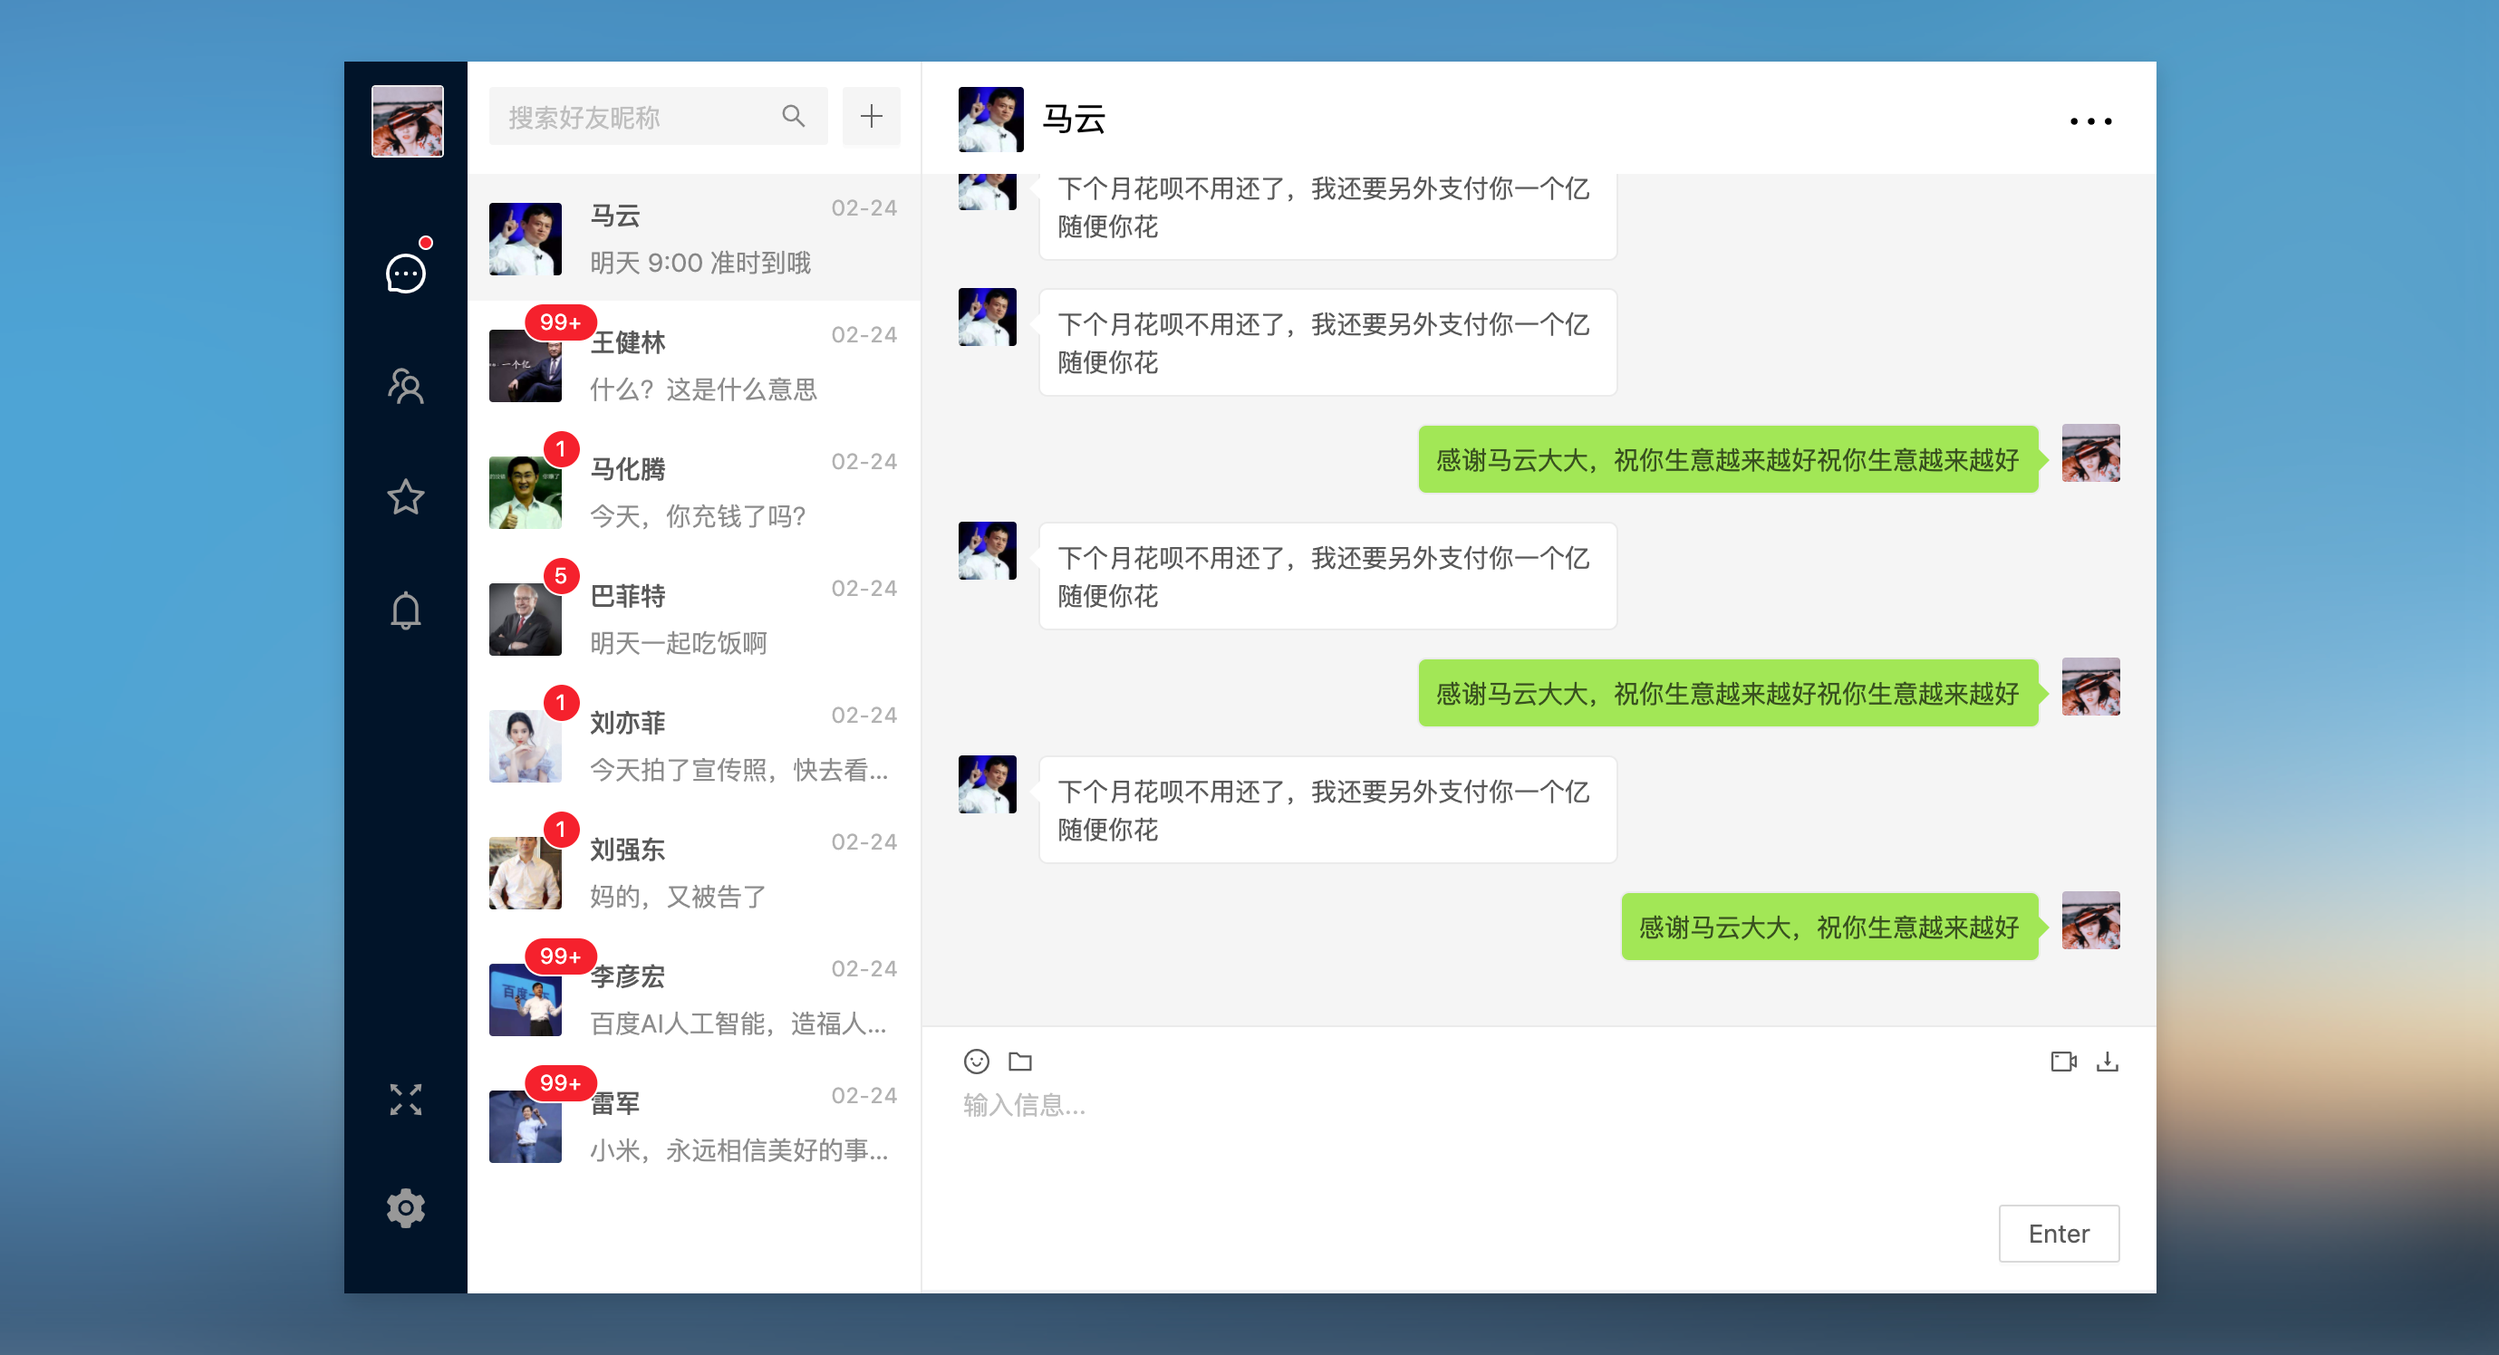
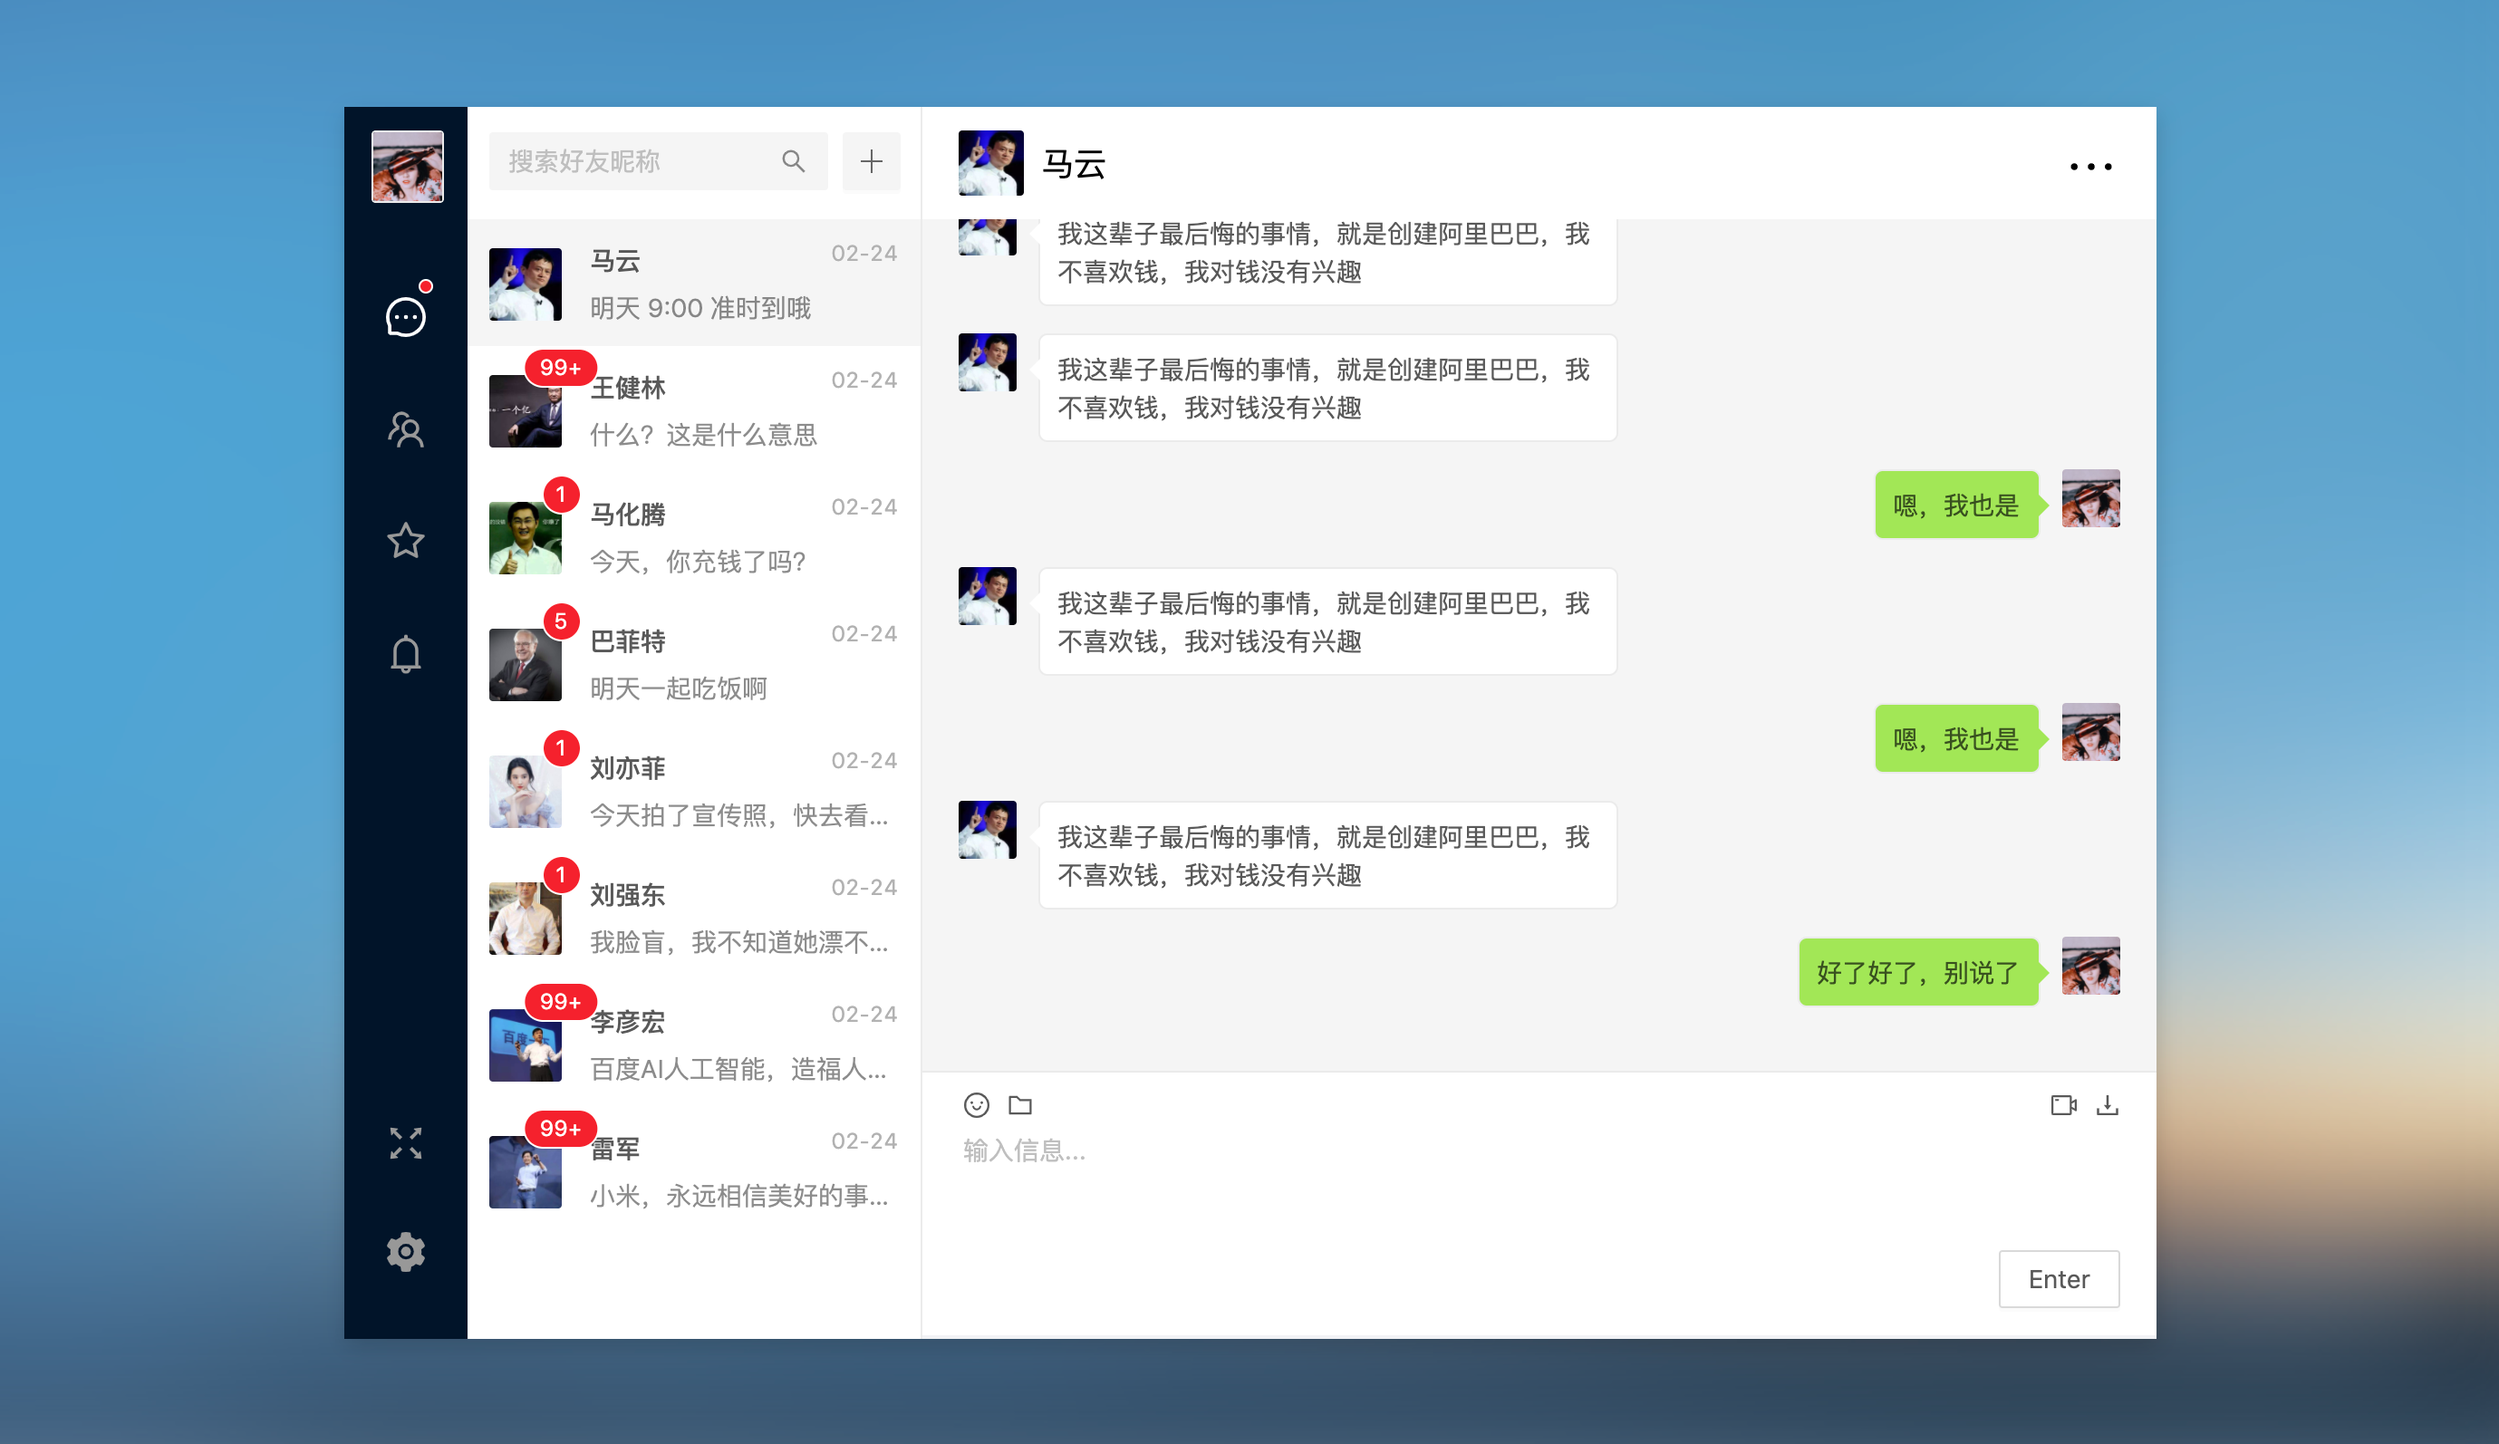
👍 EDIT README.md

diff --git a/src/redux/actions.js b/src/redux/actions.js
@@ -15,19 +15,19 @@ const showFriendInfo = friend => ({ type: INIT_FRIEND_INFO, data: friend })
 export const initChatInfo = chatUserInfo => {
     return dispatch => {
         let messList = chatUserInfo.uid === 1 ? [
-            {id: 1, avatar: "https://timgsa.baidu.com/timg?image&quality=80&size=b9999_10000&sec=1582778785114&di=4bf0a9cbe00cd200465af9fe46b3091e&imgtype=0&src=http%3A%2F%2Fwww.56ec.org.cn%2Fd%2Ffile%2Fnews%2Frwgd%2F2017-05-15%2Fa26c40ec7d83c66d78ad6f791952a01b.jpg", message: "下个月花呗不用还了，我还要另外支付你一个亿随便你花", position: "left"},
-            {id: 2, avatar: "http://t8.baidu.com/it/u=3571592872,3353494284&fm=79&app=86&size=h300&n=0&g=4n&f=jpeg?sec=1583315718&t=9caf2bcbcf5ea34c543c426750bb1134", message: "感谢马云大大，祝你生意越来越好祝你生意越来越好", position: "right"},
-            {id: 3, avatar: "https://timgsa.baidu.com/timg?image&quality=80&size=b9999_10000&sec=1582778785114&di=4bf0a9cbe00cd200465af9fe46b3091e&imgtype=0&src=http%3A%2F%2Fwww.56ec.org.cn%2Fd%2Ffile%2Fnews%2Frwgd%2F2017-05-15%2Fa26c40ec7d83c66d78ad6f791952a01b.jpg", message: "下个月花呗不用还了，我还要另外支付你一个亿随便你花", position: "left"},
-            {id: 4, avatar: "http://t8.baidu.com/it/u=3571592872,3353494284&fm=79&app=86&size=h300&n=0&g=4n&f=jpeg?sec=1583315718&t=9caf2bcbcf5ea34c543c426750bb1134", message: "感谢马云大大，祝你生意越来越好祝你生意越来越好", position: "right"},
-            {id: 5, avatar: "https://timgsa.baidu.com/timg?image&quality=80&size=b9999_10000&sec=1582778785114&di=4bf0a9cbe00cd200465af9fe46b3091e&imgtype=0&src=http%3A%2F%2Fwww.56ec.org.cn%2Fd%2Ffile%2Fnews%2Frwgd%2F2017-05-15%2Fa26c40ec7d83c66d78ad6f791952a01b.jpg", message: "下个月花呗不用还了，我还要另外支付你一个亿随便你花", position: "left"},
-            {id: 6, avatar: "http://t8.baidu.com/it/u=3571592872,3353494284&fm=79&app=86&size=h300&n=0&g=4n&f=jpeg?sec=1583315718&t=9caf2bcbcf5ea34c543c426750bb1134", message: "感谢马云大大，祝你生意越来越好祝你生意越来越好", position: "right"},
-            {id: 7, avatar: "https://timgsa.baidu.com/timg?image&quality=80&size=b9999_10000&sec=1582778785114&di=4bf0a9cbe00cd200465af9fe46b3091e&imgtype=0&src=http%3A%2F%2Fwww.56ec.org.cn%2Fd%2Ffile%2Fnews%2Frwgd%2F2017-05-15%2Fa26c40ec7d83c66d78ad6f791952a01b.jpg", message: "下个月花呗不用还了，我还要另外支付你一个亿随便你花", position: "left"},
-            {id: 8, avatar: "https://timgsa.baidu.com/timg?image&quality=80&size=b9999_10000&sec=1582778785114&di=4bf0a9cbe00cd200465af9fe46b3091e&imgtype=0&src=http%3A%2F%2Fwww.56ec.org.cn%2Fd%2Ffile%2Fnews%2Frwgd%2F2017-05-15%2Fa26c40ec7d83c66d78ad6f791952a01b.jpg", message: "下个月花呗不用还了，我还要另外支付你一个亿随便你花", position: "left"},
-            {id: 9, avatar: "http://t8.baidu.com/it/u=3571592872,3353494284&fm=79&app=86&size=h300&n=0&g=4n&f=jpeg?sec=1583315718&t=9caf2bcbcf5ea34c543c426750bb1134", message: "感谢马云大大，祝你生意越来越好祝你生意越来越好", position: "right"},
-            {id: 10, avatar: "https://timgsa.baidu.com/timg?image&quality=80&size=b9999_10000&sec=1582778785114&di=4bf0a9cbe00cd200465af9fe46b3091e&imgtype=0&src=http%3A%2F%2Fwww.56ec.org.cn%2Fd%2Ffile%2Fnews%2Frwgd%2F2017-05-15%2Fa26c40ec7d83c66d78ad6f791952a01b.jpg", message: "下个月花呗不用还了，我还要另外支付你一个亿随便你花", position: "left"},
-            {id: 11, avatar: "http://t8.baidu.com/it/u=3571592872,3353494284&fm=79&app=86&size=h300&n=0&g=4n&f=jpeg?sec=1583315718&t=9caf2bcbcf5ea34c543c426750bb1134", message: "感谢马云大大，祝你生意越来越好祝你生意越来越好", position: "right"},
-            {id: 12, avatar: "https://timgsa.baidu.com/timg?image&quality=80&size=b9999_10000&sec=1582778785114&di=4bf0a9cbe00cd200465af9fe46b3091e&imgtype=0&src=http%3A%2F%2Fwww.56ec.org.cn%2Fd%2Ffile%2Fnews%2Frwgd%2F2017-05-15%2Fa26c40ec7d83c66d78ad6f791952a01b.jpg", message: "下个月花呗不用还了，我还要另外支付你一个亿随便你花", position: "left"},
-            {id: 13, avatar: "http://t8.baidu.com/it/u=3571592872,3353494284&fm=79&app=86&size=h300&n=0&g=4n&f=jpeg?sec=1583315718&t=9caf2bcbcf5ea34c543c426750bb1134", message: "感谢马云大大，祝你生意越来越好", position: "right"},
+            {id: 1, avatar: "https://timgsa.baidu.com/timg?image&quality=80&size=b9999_10000&sec=1582778785114&di=4bf0a9cbe00cd200465af9fe46b3091e&imgtype=0&src=http%3A%2F%2Fwww.56ec.org.cn%2Fd%2Ffile%2Fnews%2Frwgd%2F2017-05-15%2Fa26c40ec7d83c66d78ad6f791952a01b.jpg", message: " 我这辈子最后悔的事情，就是创建阿里巴巴，我不喜欢钱，我对钱没有兴趣", position: "left"},
+            {id: 2, avatar: "http://t8.baidu.com/it/u=3571592872,3353494284&fm=79&app=86&size=h300&n=0&g=4n&f=jpeg?sec=1583315718&t=9caf2bcbcf5ea34c543c426750bb1134", message: "嗯，我也是", position: "right"},
+            {id: 3, avatar: "https://timgsa.baidu.com/timg?image&quality=80&size=b9999_10000&sec=1582778785114&di=4bf0a9cbe00cd200465af9fe46b3091e&imgtype=0&src=http%3A%2F%2Fwww.56ec.org.cn%2Fd%2Ffile%2Fnews%2Frwgd%2F2017-05-15%2Fa26c40ec7d83c66d78ad6f791952a01b.jpg", message: " 我这辈子最后悔的事情，就是创建阿里巴巴，我不喜欢钱，我对钱没有兴趣", position: "left"},
+            {id: 4, avatar: "http://t8.baidu.com/it/u=3571592872,3353494284&fm=79&app=86&size=h300&n=0&g=4n&f=jpeg?sec=1583315718&t=9caf2bcbcf5ea34c543c426750bb1134", message: "嗯，我也是", position: "right"},
+            {id: 5, avatar: "https://timgsa.baidu.com/timg?image&quality=80&size=b9999_10000&sec=1582778785114&di=4bf0a9cbe00cd200465af9fe46b3091e&imgtype=0&src=http%3A%2F%2Fwww.56ec.org.cn%2Fd%2Ffile%2Fnews%2Frwgd%2F2017-05-15%2Fa26c40ec7d83c66d78ad6f791952a01b.jpg", message: " 我这辈子最后悔的事情，就是创建阿里巴巴，我不喜欢钱，我对钱没有兴趣", position: "left"},
+            {id: 6, avatar: "http://t8.baidu.com/it/u=3571592872,3353494284&fm=79&app=86&size=h300&n=0&g=4n&f=jpeg?sec=1583315718&t=9caf2bcbcf5ea34c543c426750bb1134", message: "嗯，我也是", position: "right"},
+            {id: 7, avatar: "https://timgsa.baidu.com/timg?image&quality=80&size=b9999_10000&sec=1582778785114&di=4bf0a9cbe00cd200465af9fe46b3091e&imgtype=0&src=http%3A%2F%2Fwww.56ec.org.cn%2Fd%2Ffile%2Fnews%2Frwgd%2F2017-05-15%2Fa26c40ec7d83c66d78ad6f791952a01b.jpg", message: " 我这辈子最后悔的事情，就是创建阿里巴巴，我不喜欢钱，我对钱没有兴趣", position: "left"},
+            {id: 8, avatar: "https://timgsa.baidu.com/timg?image&quality=80&size=b9999_10000&sec=1582778785114&di=4bf0a9cbe00cd200465af9fe46b3091e&imgtype=0&src=http%3A%2F%2Fwww.56ec.org.cn%2Fd%2Ffile%2Fnews%2Frwgd%2F2017-05-15%2Fa26c40ec7d83c66d78ad6f791952a01b.jpg", message: " 我这辈子最后悔的事情，就是创建阿里巴巴，我不喜欢钱，我对钱没有兴趣", position: "left"},
+            {id: 9, avatar: "http://t8.baidu.com/it/u=3571592872,3353494284&fm=79&app=86&size=h300&n=0&g=4n&f=jpeg?sec=1583315718&t=9caf2bcbcf5ea34c543c426750bb1134", message: "嗯，我也是", position: "right"},
+            {id: 10, avatar: "https://timgsa.baidu.com/timg?image&quality=80&size=b9999_10000&sec=1582778785114&di=4bf0a9cbe00cd200465af9fe46b3091e&imgtype=0&src=http%3A%2F%2Fwww.56ec.org.cn%2Fd%2Ffile%2Fnews%2Frwgd%2F2017-05-15%2Fa26c40ec7d83c66d78ad6f791952a01b.jpg", message: " 我这辈子最后悔的事情，就是创建阿里巴巴，我不喜欢钱，我对钱没有兴趣", position: "left"},
+            {id: 11, avatar: "http://t8.baidu.com/it/u=3571592872,3353494284&fm=79&app=86&size=h300&n=0&g=4n&f=jpeg?sec=1583315718&t=9caf2bcbcf5ea34c543c426750bb1134", message: "嗯，我也是", position: "right"},
+            {id: 12, avatar: "https://timgsa.baidu.com/timg?image&quality=80&size=b9999_10000&sec=1582778785114&di=4bf0a9cbe00cd200465af9fe46b3091e&imgtype=0&src=http%3A%2F%2Fwww.56ec.org.cn%2Fd%2Ffile%2Fnews%2Frwgd%2F2017-05-15%2Fa26c40ec7d83c66d78ad6f791952a01b.jpg", message: " 我这辈子最后悔的事情，就是创建阿里巴巴，我不喜欢钱，我对钱没有兴趣", position: "left"},
+            {id: 13, avatar: "http://t8.baidu.com/it/u=3571592872,3353494284&fm=79&app=86&size=h300&n=0&g=4n&f=jpeg?sec=1583315718&t=9caf2bcbcf5ea34c543c426750bb1134", message: "好了好了，别说了", position: "right"},
         ] : []
         setTimeout(() => { dispatch(initChatData({ loading: false })) }, 1000)
         dispatch(initChatData({ chatUserInfo, messList, loading: true, showRightType: 'message' }))

diff --git a/src/pages/chat/contacts/index.jsx b/src/pages/chat/contacts/index.jsx
@@ -69,7 +69,7 @@ class Contacts extends Component {
             { uid: 3, "name": "马化腾", "avatar": "https://ss0.bdstatic.com/70cFuHSh_Q1YnxGkpoWK1HF6hhy/it/u=1448222705,364131329&fm=26&gp=0.jpg", "last":"今天，你充钱了吗？", unread: 1 },
             { uid: 4, "name": "巴菲特", "avatar": "https://timgsa.baidu.com/timg?image&quality=80&size=b9999_10000&sec=1582778875578&di=e01fad34bb5d118d8f2a3b4d330b0482&imgtype=0&src=http%3A%2F%2Fimg.mp.itc.cn%2Fupload%2F20170518%2F4fbdc7b308224171b7eb127ef241d211_th.jpg", "last":"明天一起吃饭啊", unread: 5 },
             { uid: 5, "name": "刘亦菲", "avatar": "https://timgsa.baidu.com/timg?image&quality=80&size=b9999_10000&sec=1582778899824&di=86416b5c424eec83f25460f53223cded&imgtype=0&src=http%3A%2F%2Fwx3.sinaimg.cn%2Fbmiddle%2F69949546ly1gaxecjgu3gj20u00mi495.jpg", "last":"今天拍了宣传照，快去看看吧", unread: 1 },
-            { uid: 6, "name": "刘强东", "avatar": "https://timgsa.baidu.com/timg?image&quality=80&size=b9999_10000&sec=1582778918134&di=a1a98d63733b3abf50a7bf2833061a71&imgtype=jpg&src=http%3A%2F%2Fimg3.imgtn.bdimg.com%2Fit%2Fu%3D3934483023%2C600439244%26fm%3D214%26gp%3D0.jpg", "last":"妈的，又被告了", unread: 1 },
+            { uid: 6, "name": "刘强东", "avatar": "https://timgsa.baidu.com/timg?image&quality=80&size=b9999_10000&sec=1582778918134&di=a1a98d63733b3abf50a7bf2833061a71&imgtype=jpg&src=http%3A%2F%2Fimg3.imgtn.bdimg.com%2Fit%2Fu%3D3934483023%2C600439244%26fm%3D214%26gp%3D0.jpg", "last":"我脸盲，我不知道她漂不漂亮", unread: 1 },
             { uid: 7, "name": "李彦宏", "avatar": "https://timgsa.baidu.com/timg?image&quality=80&size=b9999_10000&sec=1582778934832&di=0696ccada3b7bd6be113536edcfe567f&imgtype=0&src=http%3A%2F%2Fimage.woshipm.com%2Fwp-files%2F2014%2F05%2F0035.jpg", "last":"百度AI人工智能，造福人类，哈哈哈", unread: 100 },
             { uid: 8, "name": "雷军", "avatar": "https://timgsa.baidu.com/timg?image&quality=80&size=b9999_10000&sec=1582780482194&di=aab09c98f3d82137079cba7fe267b0dc&imgtype=0&src=http%3A%2F%2Fimg.mp.sohu.com%2Fupload%2F20180618%2Fa329dc911c83460b9e16f2a5cc2db364_th.jpg", "last":"小米，永远相信美好的事情即将发生", unread: 128 },
         ]
